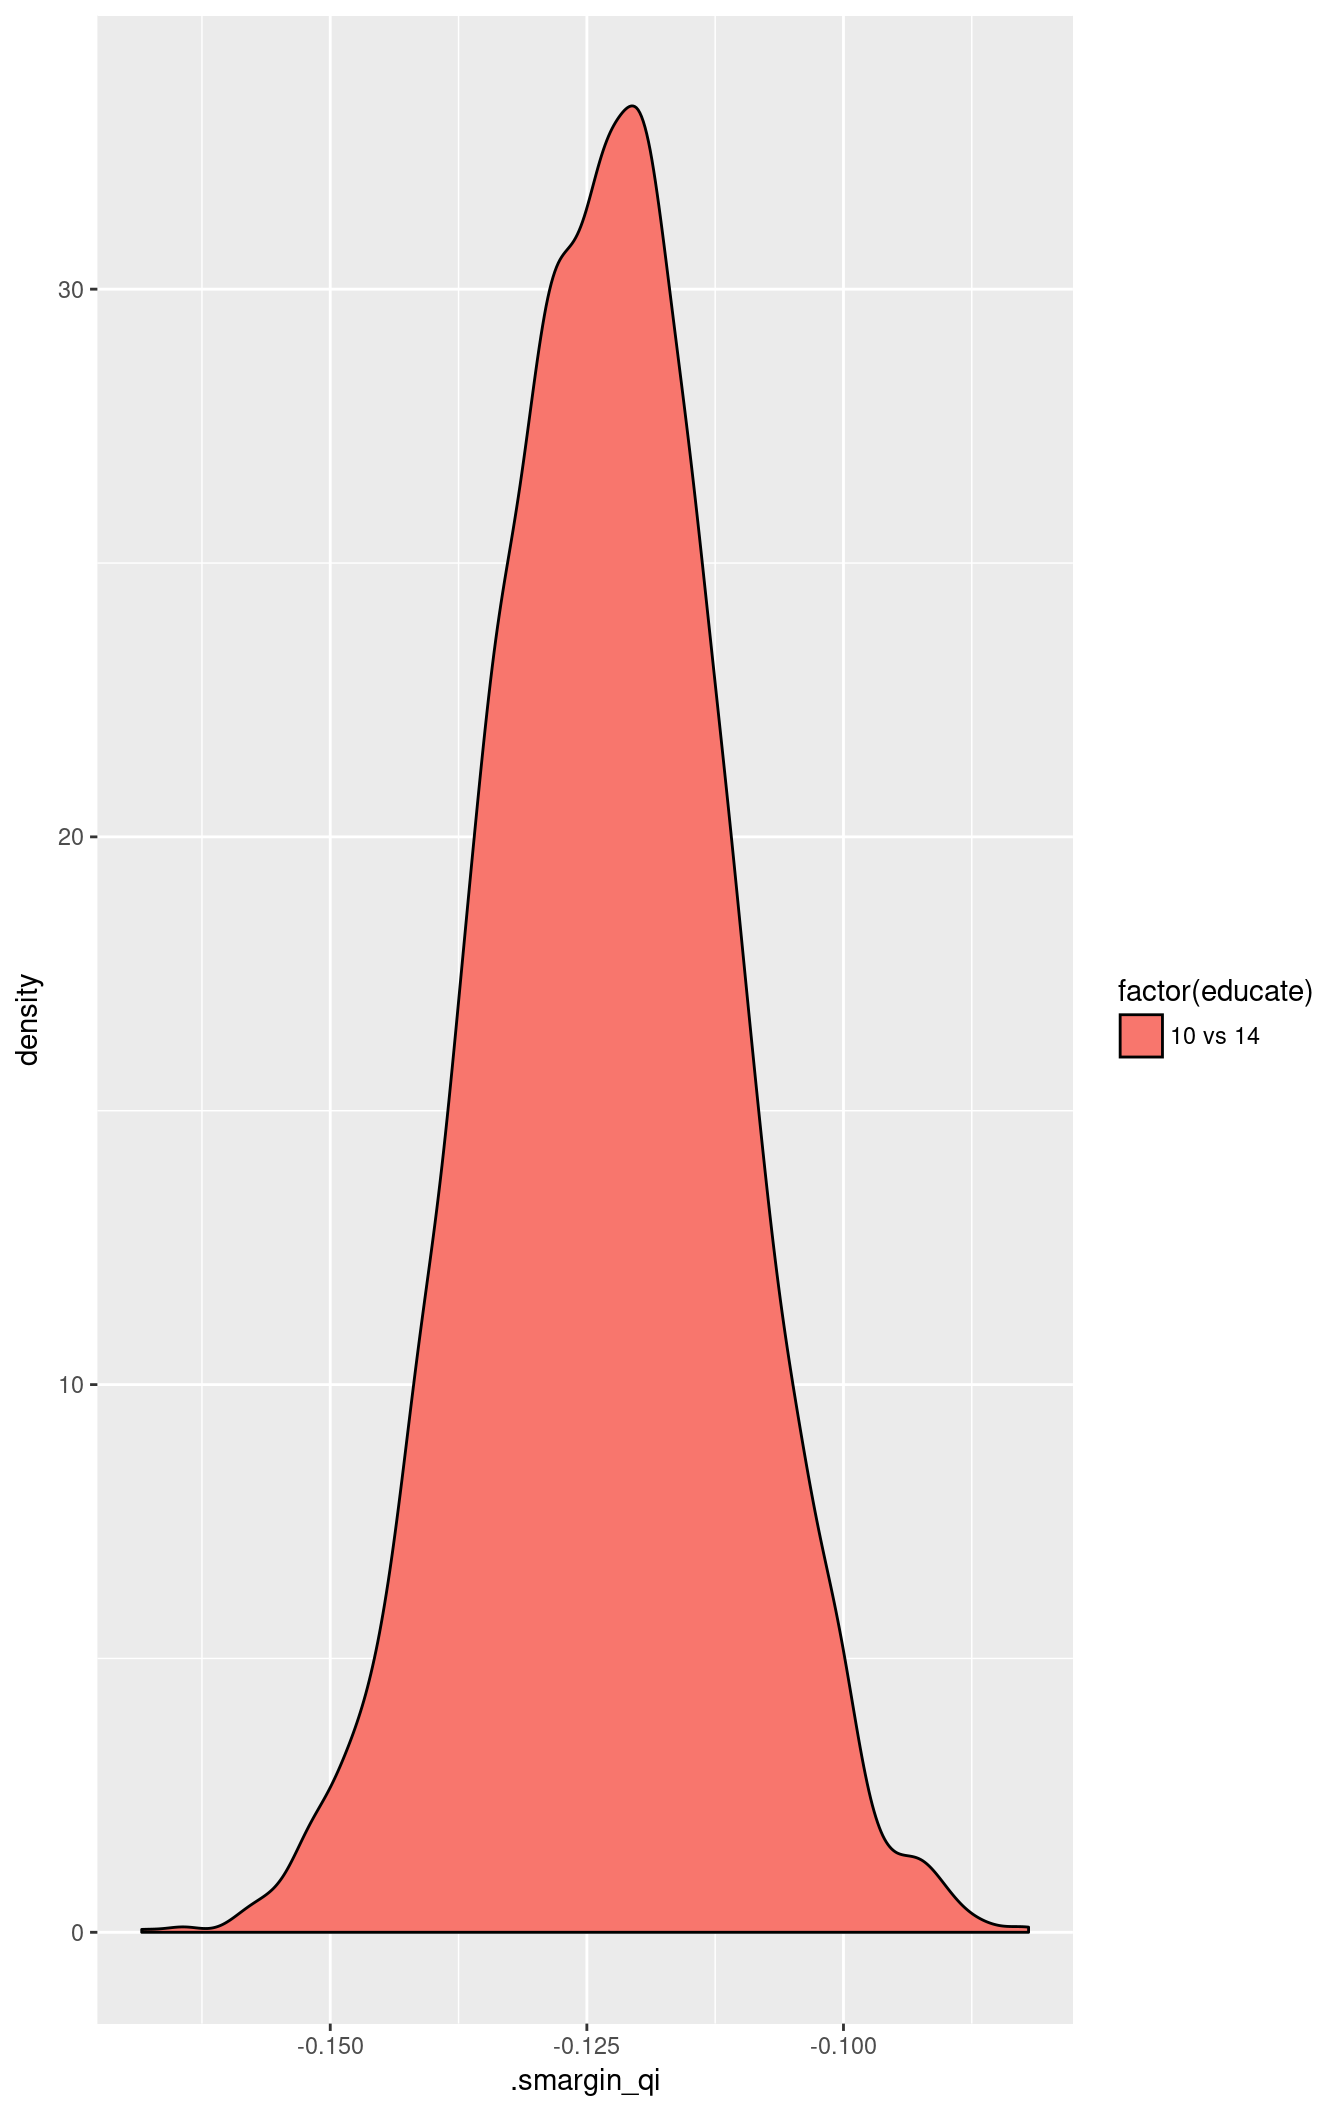
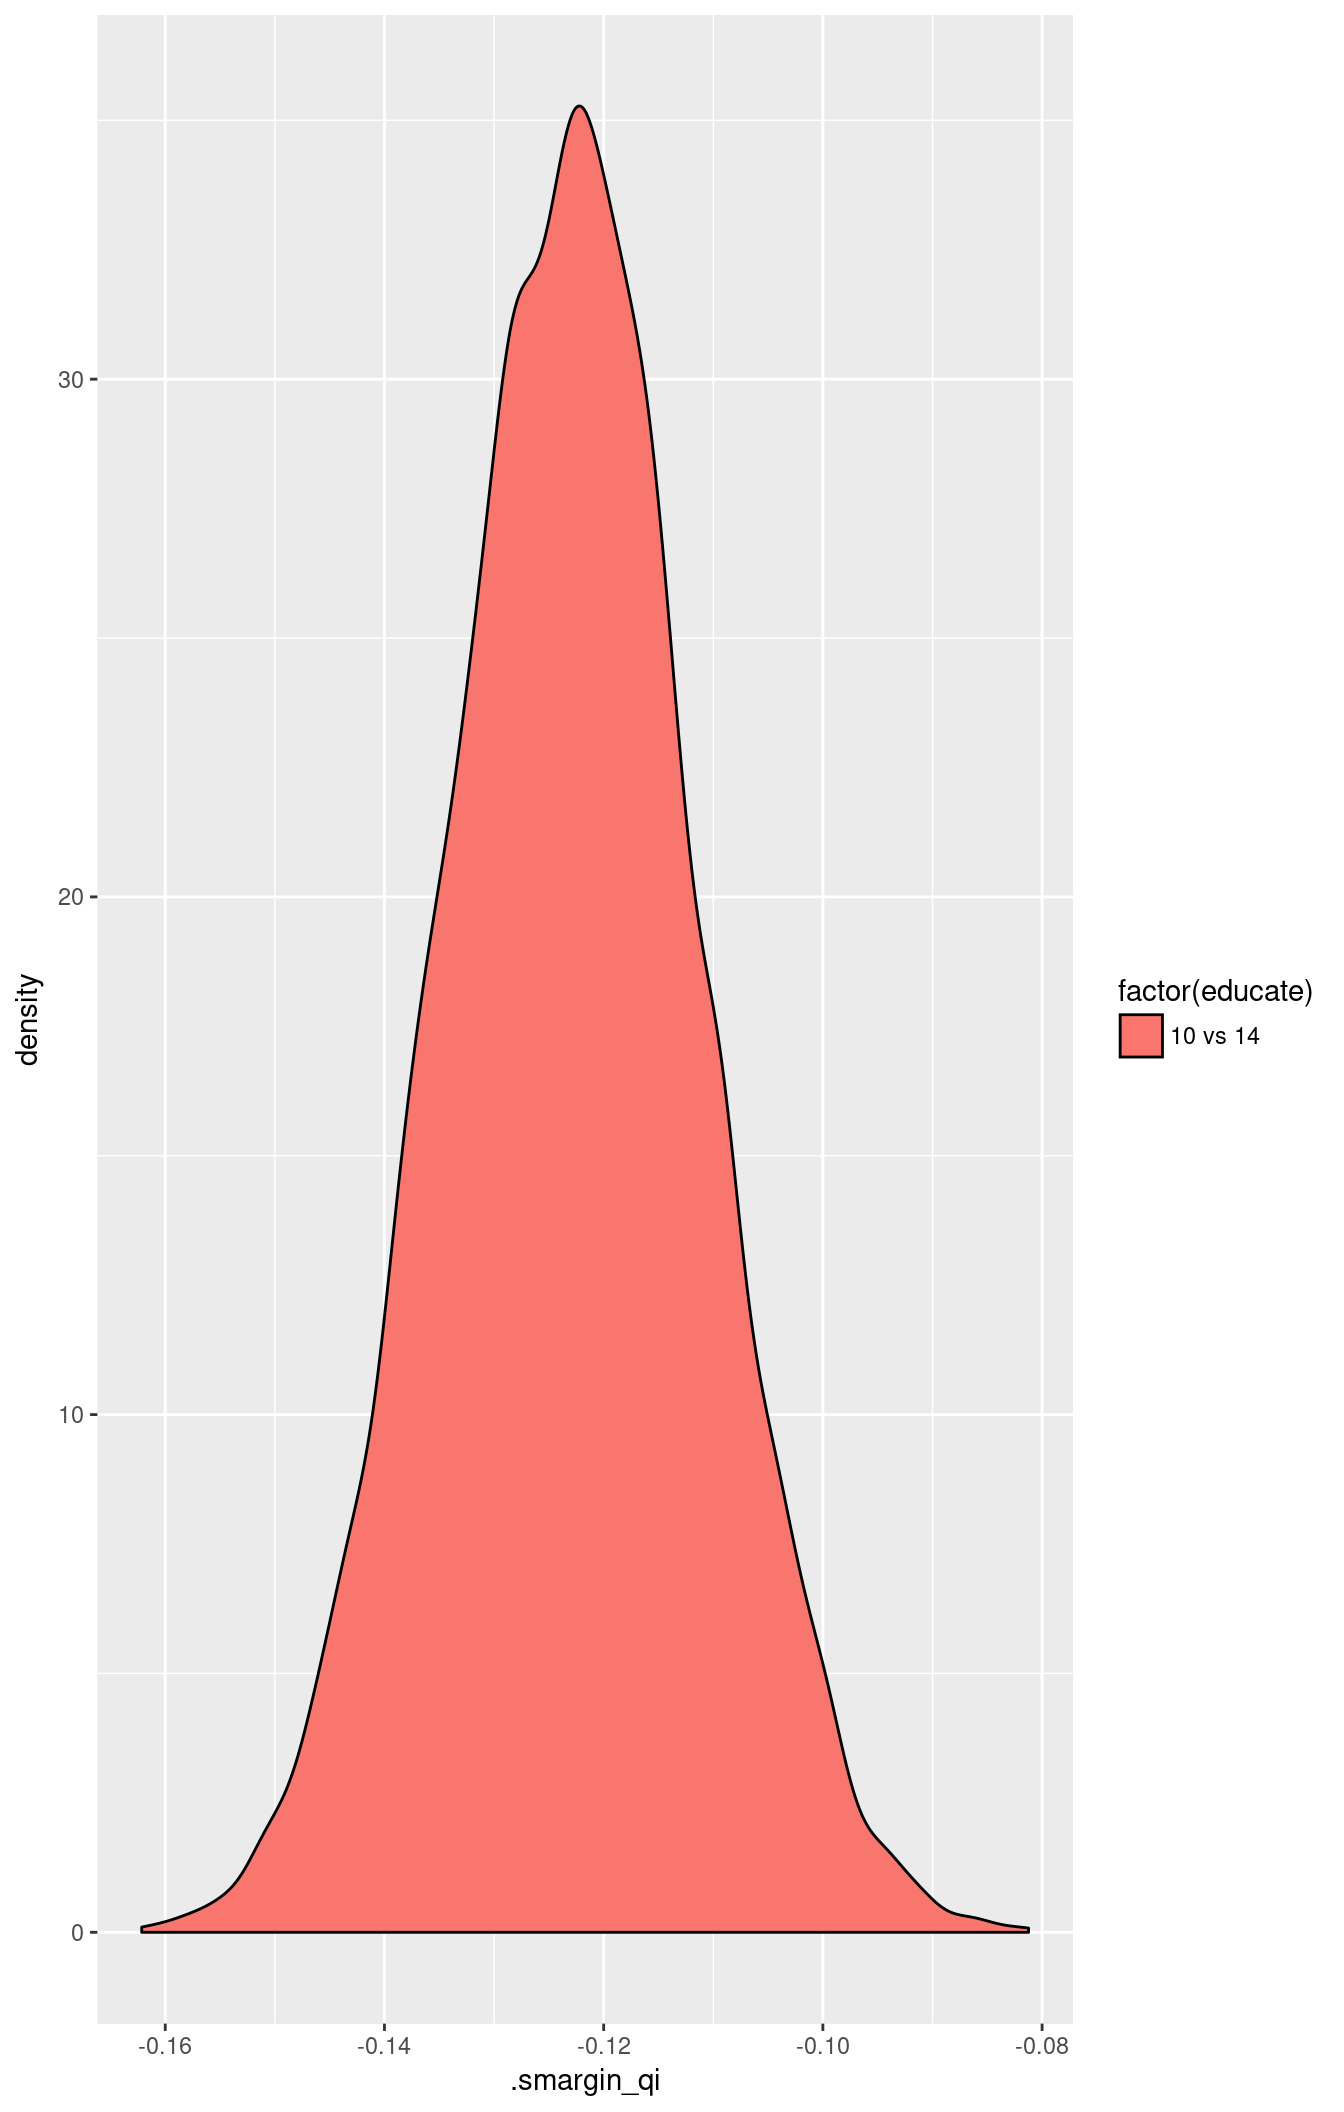
add comparisons

Changed region(s): [[0.125, 0.0312, 0.6562, 0.9375], [0.6562, 0.875, 0.7188, 0.9062]]

diff --git a/docs/articles/8_with_Amelia.html b/docs/articles/8_with_Amelia.html
@@ -112,7 +112,7 @@
 <div class="sourceLine" id="cb4-2" data-line-number="2">a.out &lt;-<span class="st"> </span><span class="kw"><a href="http://www.rdocumentation.org/packages/Amelia/topics/amelia">amelia</a></span>(<span class="dt">x =</span> africa, <span class="dt">cs =</span> <span class="st">"country"</span>, <span class="dt">ts =</span> <span class="st">"year"</span>, <span class="dt">logs =</span> <span class="st">"gdp_pc"</span>)</div></code></pre>
 <pre><code>## -- Imputation 1 --
 ## 
-##   1  2
+##   1  2  3
 ## 
 ## -- Imputation 2 --
 ## 
@@ -136,25 +136,25 @@
 <span class="kw"><a href="http://www.rdocumentation.org/packages/Amelia/topics/mi.meld">mi.meld</a></span>(<span class="kw"><a href="http://www.rdocumentation.org/packages/purrr/topics/reduce">reduce</a></span>(<span class="kw"><a href="http://www.rdocumentation.org/packages/purrr/topics/map">map</a></span>(models, coef), rbind),</div>
 <div class="sourceLine" id="cb7-2" data-line-number="2">        <span class="kw"><a href="http://www.rdocumentation.org/packages/purrr/topics/reduce">reduce</a></span>(<span class="kw"><a href="http://www.rdocumentation.org/packages/purrr/topics/map">map</a></span>(models, <span class="op">~</span><span class="st"> </span><span class="kw">coef</span>(<span class="kw">summary</span>(.))[, <span class="st">"Std. Error"</span>]), rbind))</div></code></pre>
 <pre><code>## $q.mi
-##      (Intercept)   trade    civlib
-## [1,]    122.2372 18.0798 -651.0671
+##      (Intercept)    trade    civlib
+## [1,]    120.6696 17.97213 -616.4984
 ## 
 ## $se.mi
 ##      (Intercept)    trade   civlib
-## [1,]     96.5323 1.237323 181.6715</code></pre>
+## [1,]     100.367 1.269219 185.8765</code></pre>
 <p>Nicer output is available from several of the available multiple-imputation packages in R, including the <em>mice</em> and <em>mitools</em>.</p>
 <pre class="sourceCode r" id="cb9"><code class="sourceCode r"><div class="sourceLine" id="cb9-1" data-line-number="1">
 <span class="kw">library</span>(mice)</div></code></pre>
 <pre><code>## Loading required package: lattice</code></pre>
 <pre class="sourceCode r" id="cb11"><code class="sourceCode r"><div class="sourceLine" id="cb11-1" data-line-number="1">(foo &lt;-<span class="st"> </span><span class="kw">summary</span>(<span class="kw"><a href="http://www.rdocumentation.org/packages/mice/topics/pool">pool</a></span>(<span class="kw"><a href="http://www.rdocumentation.org/packages/mice/topics/as.mira">as.mira</a></span>(models))))</div></code></pre>
-<pre><code>##                   est         se         t       df     Pr(&gt;|t|)
-## (Intercept)  122.2372  96.532305  1.266283 114.7651 0.2079758966
-## trade         18.0798   1.237323 14.612029 114.5744 0.0000000000
-## civlib      -651.0671 181.671463 -3.583761 114.5682 0.0004986875
-##                   lo 95     hi 95 nmis        fmi      lambda
-## (Intercept)   -68.97884  313.4533   NA 0.01926532 0.002321799
-## trade          15.62881   20.5308   NA 0.02068272 0.003735760
-## civlib      -1010.93768 -291.1964   NA 0.02072738 0.003780276</code></pre>
+<pre><code>##                    est         se         t       df    Pr(&gt;|t|)
+## (Intercept)  120.66964 100.366994  1.202284 105.4459 0.231946436
+## trade         17.97213   1.269219 14.159998 110.6434 0.000000000
+## civlib      -616.49836 185.876470 -3.316710 110.6022 0.001232924
+##                  lo 95      hi 95 nmis        fmi     lambda
+## (Intercept)  -78.32976  319.66904   NA 0.05867997 0.04099361
+## trade         15.45700   20.48726   NA 0.04063508 0.02344885
+## civlib      -984.83960 -248.15713   NA 0.04079997 0.02361033</code></pre>
 <section id="quantities-of-interest-for-mi" class="level2"><h2>Quantities of interest for MI</h2>
 <p>Using simulations to estimate uncertainty makes it pretty easy to incorporate additional uncertainty from imputed values.</p>
 <pre class="sourceCode r" id="cb13"><code class="sourceCode r"><div class="sourceLine" id="cb13-1" data-line-number="1">
@@ -167,14 +167,16 @@
 <div class="sourceLine" id="cb13-7" data-line-number="7"></div>
 <div class="sourceLine" id="cb13-8" data-line-number="8">
 <span class="kw">summary</span>(<span class="kw"><a href="http://www.rdocumentation.org/packages/purrr/topics/reduce">reduce</a></span>(models.sm, rbind))</div></code></pre>
-<pre><code>##     trade      mean       sd    median lower_2.5 upper_97.5
-## 1 38.3307  633.3841 42.68701  633.7009  551.9111   718.6691
-## 2 59.1900  628.8123 43.08756  628.0225  545.2814   713.2155
-## 3 80.7875  630.9437 43.14785  631.0282  544.9116   713.5322
-## 4 38.4650  623.9552 43.02827  623.1701  540.8477   708.4134
-## 5 58.8350  998.6389 31.78381  998.9410  935.4357  1061.0959
-## 6 38.4075 1004.5014 32.47764 1004.2615  940.5695  1068.2552
-## 7 38.5325 1395.3898 39.84076 1395.3813 1317.3814  1472.7176</code></pre>
+<pre><code>##      trade      mean       sd    median lower_2.5 upper_97.5
+## 1 38.53250  638.6768 44.08796  638.8301  553.0027   725.3612
+## 2 60.05957  639.0153 42.34765  639.2131  556.4385   722.6441
+## 3 80.78750  627.2941 43.97751  626.9232  541.2587   712.5003
+## 4 38.46500  630.3959 44.68813  630.7459  540.2730   718.6906
+## 5 58.83500 1006.9468 32.28951 1006.9448  943.1812  1070.6943
+## 6 38.70000 1005.3457 32.86537 1004.8939  942.7756  1068.4128
+## 7 59.53000 1010.3056 32.81583 1010.8712  944.9462  1073.7131
+## 8 38.40750 1012.9385 32.64647 1013.3870  949.0795  1075.0092
+## 9 59.19000 1394.9110 40.63911 1394.5700 1314.5625  1474.6927</code></pre>
 </section>
 </div>
   </div>

diff --git a/docs/articles/4_glm.html b/docs/articles/4_glm.html
@@ -142,8 +142,8 @@
 <div class="sourceLine" id="cb8-2" data-line-number="2">m.sm &lt;-<span class="st"> </span><span class="kw"><a href="../reference/smargins.html">smargins</a></span>(m1, <span class="dt">age =</span> <span class="dv">36</span>, <span class="dt">race =</span> <span class="kw">c</span>(<span class="st">"white"</span>))</div>
 <div class="sourceLine" id="cb8-3" data-line-number="3">
 <span class="kw">summary</span>(m.sm)</div></code></pre>
-<pre><code>##   age  race      mean         sd    median lower_2.5 upper_97.5
-## 1  36 white 0.6083625 0.02928334 0.6087727 0.5500076  0.6642767</code></pre>
+<pre><code>##   age  race     mean         sd    median lower_2.5 upper_97.5
+## 1  36 white 0.608105 0.02907479 0.6084978 0.5493922  0.6637536</code></pre>
 <p>Show the results graphically:</p>
 <pre class="sourceCode r" id="cb10"><code class="sourceCode r"><div class="sourceLine" id="cb10-1" data-line-number="1">
 <span class="kw">library</span>(ggplot2)</div>
@@ -162,12 +162,12 @@
 <div class="sourceLine" id="cb11-4" data-line-number="4">
 <span class="kw">summary</span>(m2.sm)</div></code></pre>
 <pre><code>##   educate      mean         sd    median lower_2.5 upper_97.5
-## 1      10 0.6898357 0.01215329 0.6900576 0.6647333  0.7134552
-## 2      14 0.8130983 0.01040942 0.8134370 0.7920850  0.8324708</code></pre>
+## 1      10 0.6900138 0.01204573 0.6902361 0.6658196  0.7131517
+## 2      14 0.8130538 0.01038134 0.8133685 0.7917807  0.8325070</code></pre>
 <pre class="sourceCode r" id="cb13"><code class="sourceCode r"><div class="sourceLine" id="cb13-1" data-line-number="1">
 <span class="kw">summary</span>(<span class="kw"><a href="../reference/scompare.html">scompare</a></span>(m2.sm, <span class="dt">var =</span> <span class="st">"educate"</span>))</div></code></pre>
-<pre><code>##    educate       mean         sd     median  lower_2.5 upper_97.5
-## 1 10 vs 14 -0.1232626 0.01168509 -0.1231133 -0.1461479 -0.1005507</code></pre>
+<pre><code>##    educate     mean       sd    median  lower_2.5 upper_97.5
+## 1 10 vs 14 -0.12304 0.011479 -0.122925 -0.1453368 -0.1002259</code></pre>
 <pre class="sourceCode r" id="cb15"><code class="sourceCode r"><div class="sourceLine" id="cb15-1" data-line-number="1">
 <span class="kw"><a href="http://www.rdocumentation.org/packages/ggplot2/topics/ggplot">ggplot</a></span>(<span class="kw"><a href="../reference/scompare.html">scompare</a></span>(m2.sm, <span class="st">"educate"</span>)) <span class="op">+</span>
 </div>

diff --git a/docs/articles/7_transforming_covariates.html b/docs/articles/7_transforming_covariates.html
@@ -107,8 +107,8 @@
 <div class="sourceLine" id="cb2-3" data-line-number="3">
 <span class="kw">summary</span>(<span class="kw"><a href="../reference/smargins.html">smargins</a></span>(m.log, <span class="dt">distance =</span> <span class="kw">c</span>(<span class="dv">26</span>, <span class="dv">56</span>)))</div></code></pre>
 <pre><code>##   distance     mean        sd   median lower_2.5 upper_97.5
-## 1       26 13.83740 0.4582889 13.83426  12.93758   14.72864
-## 2       56 18.14333 0.5099870 18.14361  17.13525   19.13818</code></pre>
+## 1       26 13.84815 0.4589598 13.85643  12.93912   14.73053
+## 2       56 18.13953 0.5105045 18.13272  17.11889   19.13084</code></pre>
 <p>We could also estimate the model with <code>dist</code> as a polynomial. For example:</p>
 <pre class="sourceCode r" id="cb4"><code class="sourceCode r"><div class="sourceLine" id="cb4-1" data-line-number="1"><span class="co"># Find range of polynomial values</span></div>
 <div class="sourceLine" id="cb4-2" data-line-number="2"></div>
